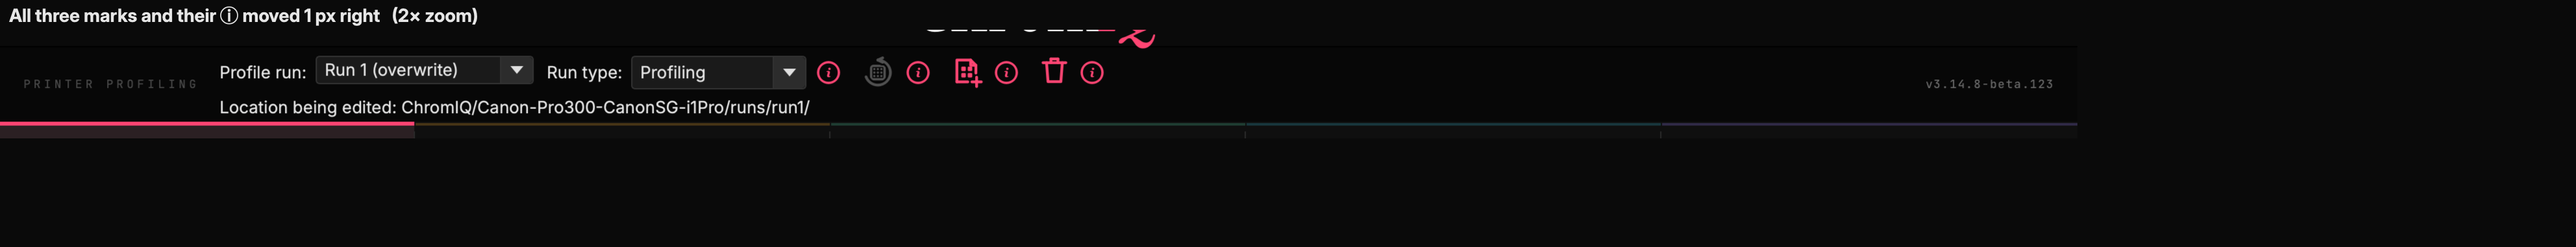
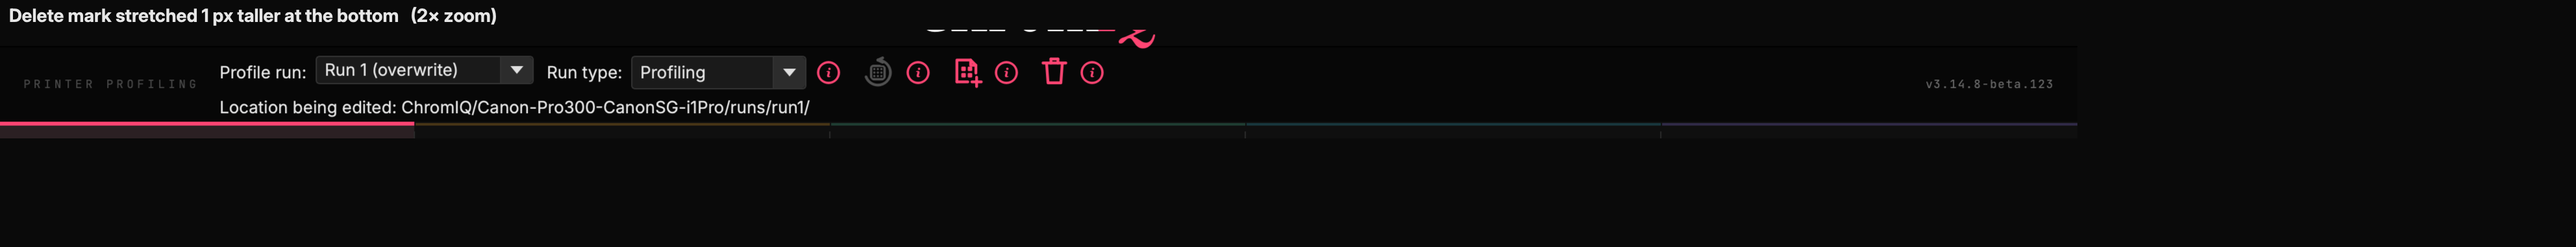
#130: the bin is one pixel taller, and the pixel goes on the bottom
Anchored on the ink's TOP rather than the box origin, which is the whole
difference between "taller" and "taller and lower". The first attempt scaled
about the origin: the top drifted half a pixel down and only half the height
arrived where it was wanted. Measured after the fix — top unchanged, height
+1.00 px, nothing clipped.

The anchor is a measured constant (INK_TOP), so it is stated rather than
guessed, and a test checks both halves of the promise.

Changed region(s): [[0.0, 0.0288, 0.2188, 0.1152], [0.4062, 0.3168, 0.4375, 0.3455]]

diff --git a/ui/bar_icons.py b/ui/bar_icons.py
@@ -146,7 +146,8 @@ def draw_restore_chart(p: QPainter, colour: str) -> None:
 
 
 def _pixmap(draw, colour: str, size: int, nudge: "tuple[float, float]" = (0.0, 0.0),
-            canvas: "int | None" = None) -> QPixmap:
+            canvas: "int | None" = None,
+            stretch_y: float = 1.0, ink_top: float = 0.0) -> QPixmap:
     """The mark at *size*, drawn on a *canvas*-wide pixmap and offset by *nudge*.
 
     **The canvas is deliberately bigger than the mark.** Drawn edge to edge, a
@@ -165,6 +166,14 @@ def _pixmap(draw, colour: str, size: int, nudge: "tuple[float, float]" = (0.0, 0
     p.setRenderHint(QPainter.RenderHint.Antialiasing)
     # Centre the mark's own box on the canvas, then move it by the nudge.
     p.translate((canvas - size) / 2 + nudge[0], (canvas - size) / 2 + nudge[1])
+    # *stretch_y* makes the mark taller. It is anchored on the ink's TOP — that
+    # is where *ink_top* comes in, measured from the mark box's origin — so the
+    # extra height appears at the BOTTOM and the mark does not appear to drift
+    # upward (#130, Basti 2026-08-03: "increase the height of the delete icon
+    # by 1 px adding it to the bottom").
+    if stretch_y != 1.0:
+        p.translate(0.0, ink_top * (1.0 - stretch_y))
+        p.scale(1.0, stretch_y)
     p.scale(size / _BOX, size / _BOX)
     try:
         draw(p, colour)
@@ -232,6 +241,14 @@ class BarIconButton(QToolButton):
     #: 2026-08-03) and chose these values.
     NUDGE = (0.0, 0.0)
 
+    #: A vertical stretch for this mark, anchored on the top of its ink so the
+    #: extra height lands at the bottom. 1.0 leaves it alone.
+    STRETCH_Y = 1.0
+    #: Where this mark's ink starts, in device-independent pixels from the top
+    #: of its ICON box — the anchor :data:`STRETCH_Y` scales about. Only needed
+    #: by a mark that is stretched.
+    INK_TOP = 0.0
+
     def __init__(self, draw, colour: str, text: str,
                  parent: "QWidget | None" = None) -> None:
         super().__init__(parent)
@@ -281,9 +298,10 @@ class BarIconButton(QToolButton):
 
     def _apply_icon(self) -> None:
         icon = QIcon(_pixmap(self._draw, self._colour, self.ICON, self.NUDGE,
-                             self.HEIGHT))
+                             self.HEIGHT, self.STRETCH_Y, self.INK_TOP))
         icon.addPixmap(_pixmap(self._draw, self._disabled_colour(), self.ICON,
-                               self.NUDGE, self.HEIGHT),
+                               self.NUDGE, self.HEIGHT, self.STRETCH_Y,
+                               self.INK_TOP),
                        QIcon.Mode.Disabled)
         self.setIcon(icon)
 
@@ -382,9 +400,14 @@ class _DuplicateButton(BarIconButton):
 class _DeleteButton(BarIconButton):
     #: Right 3, up 2 (#130, Basti 2026-08-03, in two passes: right 1 / up 2, then
     #: a further right 2). The lid is a solid horizontal stroke across the top,
-    #: which makes the bin read as sitting low. Right 3 after two passes moving
-    #: the bin and its ⓘ left together, a pixel at a time (5 → 4 → 3).
+    #: which makes the bin read as sitting low.
     NUDGE = (4.0, -2.0)
+    #: One device-independent pixel taller, added at the bottom (#130, Basti
+    #: 2026-08-03). Its ink is 20.5 px tall, so the factor is 21.5/20.5.
+    STRETCH_Y = 21.5 / 20.5
+    #: Measured: the bin's ink starts 3.5 px below its box origin at ICON = 27.
+    #: (Canvas origin 5.0, box origin (34-27)/2 + NUDGE_y = 1.5.)
+    INK_TOP = 3.5
 
 
 def duplicate_run_button(colour: str, text: str,

diff --git a/tests/test_bar_sits_on_the_masthead_rail.py b/tests/test_bar_sits_on_the_masthead_rail.py
@@ -157,3 +157,39 @@ def test_each_tip_travels_with_its_mark(qapp, tmp_path):
     assert bar._delete_tip._nudge == (-1.0, 0.0)
     assert bar._restore_tip._nudge == (1.0, 0.0)
     assert bar._duplicate_tip._nudge == (1.0, 0.0)
+
+
+def test_the_bin_is_a_pixel_taller_at_the_bottom(qapp):
+    """#130, Basti 2026-08-03: *"increase the height of the delete icon by 1px
+    adding it to the bottom? so basically stretching it by one px"*.
+
+    Anchored on the ink's TOP, which is what puts the extra height at the
+    bottom — scaling about the box origin instead would have moved the whole
+    mark down as well as stretched it, and the first attempt did exactly that
+    (the top drifted half a pixel and only half the height arrived).
+    """
+    import numpy as np
+    from PyQt6.QtGui import QImage
+    from ui.bar_icons import BarIconButton, _DeleteButton, _pixmap, draw_trash_can
+    from ui.styles import SPEC_MAGENTA
+
+    def ink(stretch, ink_top):
+        pm = _pixmap(draw_trash_can, SPEC_MAGENTA, BarIconButton.ICON,
+                     _DeleteButton.NUDGE, BarIconButton.HEIGHT, stretch, ink_top)
+        img = pm.toImage().convertToFormat(QImage.Format.Format_RGBA8888)
+        w, h = img.width(), img.height()
+        ptr = img.bits(); ptr.setsize(h * img.bytesPerLine())
+        a = np.frombuffer(ptr, np.uint8).reshape(
+            h, img.bytesPerLine() // 4, 4)[:, :w, :]
+        ys = np.nonzero((a[:, :, 3] > 20).any(1))[0]
+        return int(ys.min()), int(ys.max())
+
+    t0, b0 = ink(1.0, 0.0)
+    t1, b1 = ink(_DeleteButton.STRETCH_Y, _DeleteButton.INK_TOP)
+    assert t1 == t0, "the top must not move — the pixel goes on the bottom"
+    assert (b1 - t1) - (b0 - t0) == 2, "one device-independent pixel, at 2× dpr"
+
+
+def test_no_other_mark_is_stretched():
+    from ui.bar_icons import BarIconButton
+    assert BarIconButton.STRETCH_Y == 1.0
